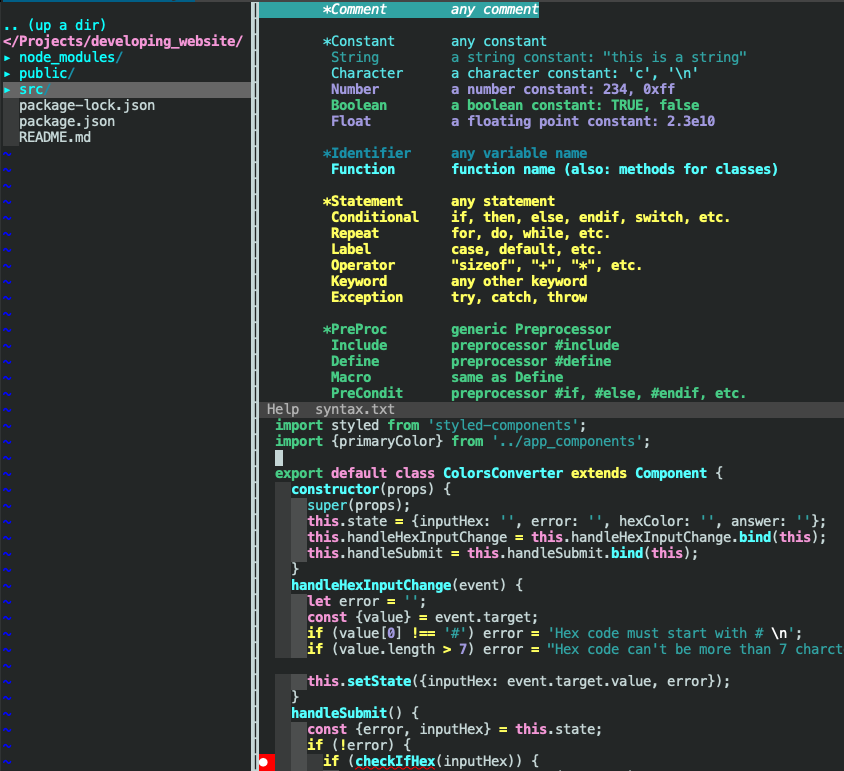
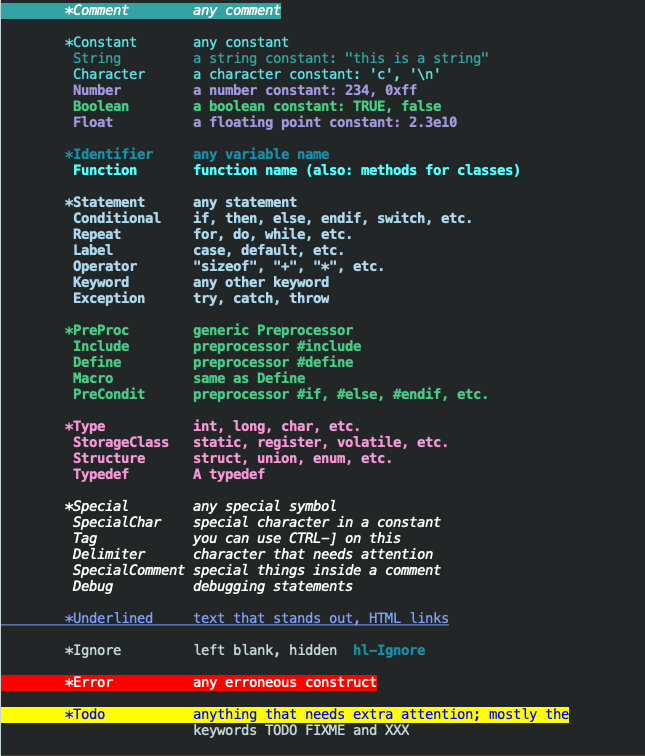
update statement color (#6)

diff --git a/README.md b/README.md
@@ -6,4 +6,5 @@ Just add `darkNTeal.vim` to your .vim/colors folder, and in .vimrc change your: 
 <br />
 
 ![Screenshot of the theme](./assets/screenshot1.png?raw=true )
+![Screenshot of the theme](./assets/screenshot2.png?raw=true )
 
